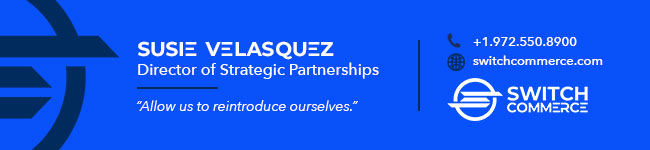
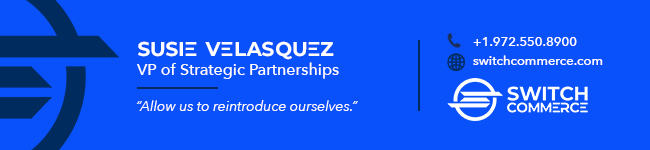
Update Susie Velasquez signature and remove 5 signatures from list

diff --git a/src/pages/EmailSignature.jsx b/src/pages/EmailSignature.jsx
@@ -39,6 +39,8 @@ export default function EmailSignature() {
                 src={
                   id === 'Renee-Mesecher'
                     ? '/signatures/images/RENEE-RIMMER-MESECHER.jpg'
+                    : id === 'Susie-Velasquez'
+                    ? `/signatures/images/${id}.jpg?v=2`
                     : `/signatures/images/${id}.jpg`
                 }
                 alt={`${id === 'Renee-Mesecher' ? 'Reneé Mesecher' : id.replace(/-/g, ' ')} signature preview`}
